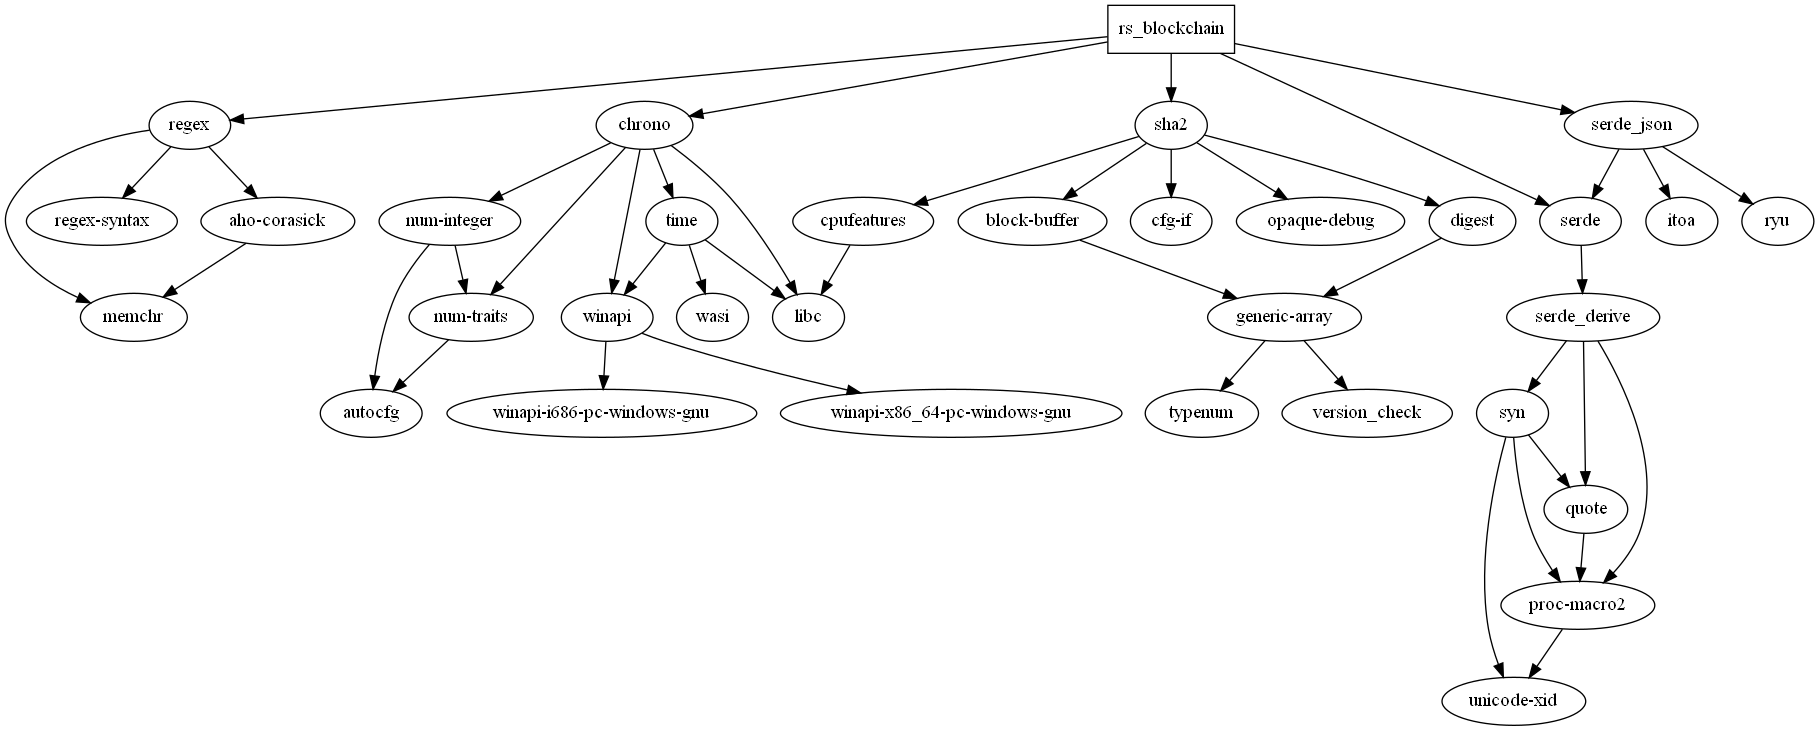
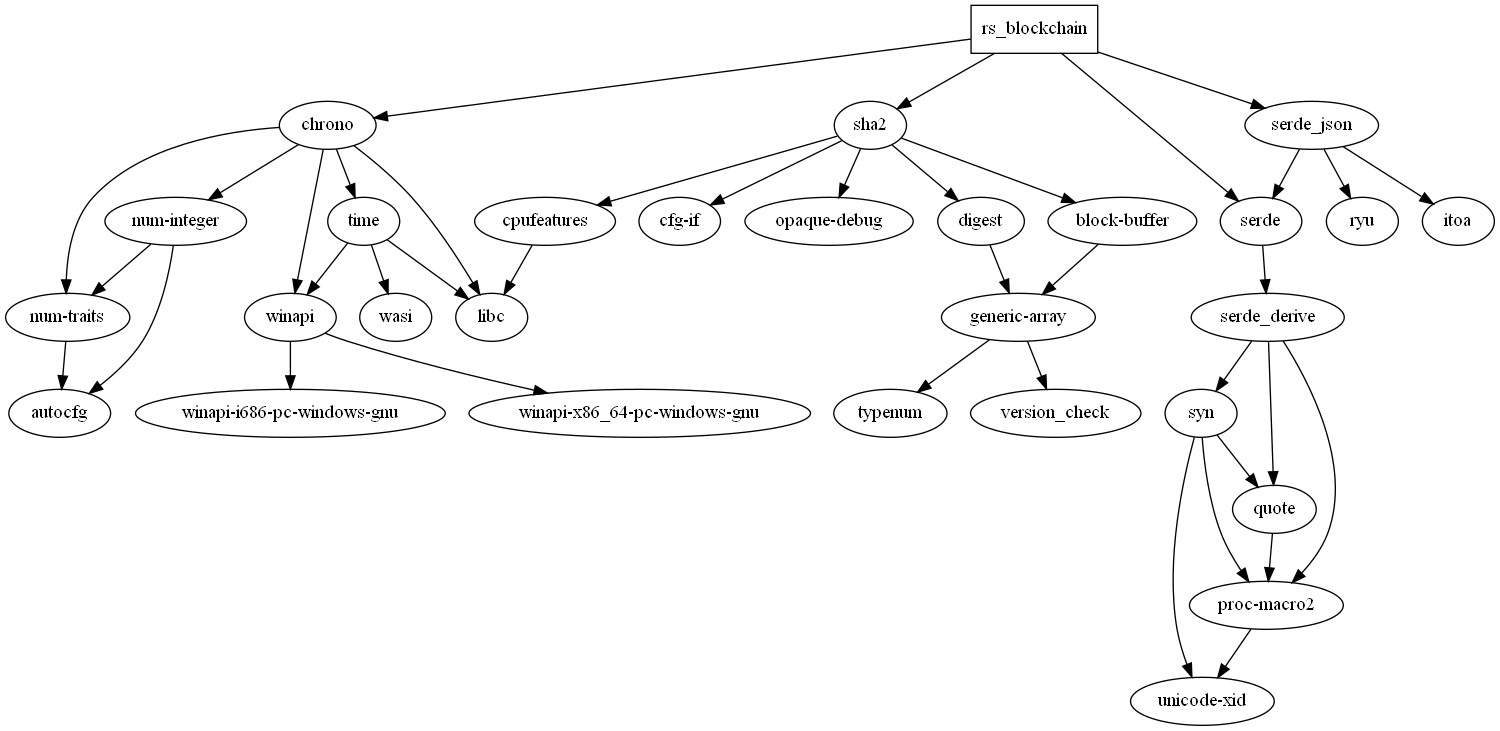
v0.2.5

diff --git a/src/rust_blockchain/blockchain.rs b/src/rust_blockchain/blockchain.rs
@@ -26,12 +26,10 @@ impl Blockchain {
 
     fn starts_with_zeros(&self, hash: &str) -> bool {
         let zeros: String = "0".repeat(self.difficulty as usize);
-        let formated_regex = format!(r"^({})", &zeros[..]);
-        let start_zeros = regex::Regex::new(&formated_regex).unwrap();
-        start_zeros.is_match(&*(hash))
+        hash.starts_with(&zeros)
     }
 
-    /// Initializes a Blockchain by creating a genesis block
+    /// Creates a new Blockchain struct and instantiates a genesis block
     pub fn init() -> Self {
         let mut blck_chain = Blockchain::new();
         let mut genesis_block = &mut blck_chain.chain[0];
@@ -40,6 +38,7 @@ impl Blockchain {
         blck_chain
     }
 
+    /// Sets the difficulty to the provided value
     pub fn set_difficulty(&mut self, diff: u32) {
         self.difficulty = diff;
     }
@@ -84,13 +83,6 @@ impl Blockchain {
         self.starts_with_zeros(&block_hash) && block_hash == block.compute_hash()
     }
 
-    /// Adds a transaction to the chain
-    // pub fn add_transaction(&mut self, sender: &str, receiver: &str, amount: f32) {
-    //     let transaction = Transaction::new(sender.to_string(), receiver.to_string(), amount);
-    //     println!("{}", transaction);
-    //     self.unconfirmed_transactions.push(transaction);
-    // }
-
     fn res_mine(&mut self) -> ErrResult<Block> {
         let unconfirmed_transactions = self.unconfirmed_transactions.clone();
         let res = unconfirmed_transactions
@@ -134,6 +126,7 @@ impl Blockchain {
         mined_block
     }
 
+    /// Writes all Blocks in a Blockchain into a separate file
     pub fn write_chain_to_file(&self) -> std::io::Result<()> {
         const BLOCKS_DIR: &str = "Blocks";
 
@@ -153,15 +146,24 @@ impl Blockchain {
             let file_name = format!("Block {}.json", blck.index);
             let mut file = File::create(file_name)?;
 
-            file.write_all(self_json.as_bytes())?;
+            file.write_all(&self_json.as_bytes())?;
         }
         env::set_current_dir("..")?;
         Ok(())
+    }
+
+    /// Lists all transactions in a Blockchain
+    pub fn list_transactions(&self) {
+        for block in self.chain.iter() {
+            for transaction in block.transactions.to_owned() {
+                println!("{}", transaction);
+            }
+        }
     }
 }
 
 impl Default for Blockchain {
     fn default() -> Self {
-        Self::new()
+        Self::init()
     }
 }

diff --git a/src/main.rs b/src/main.rs
@@ -1,0 +1,51 @@
+use std::env;
+
+use rs_blockchain::add_transaction;
+use rs_blockchain::rust_blockchain::blockchain::Blockchain;
+
+fn main() -> Result<(), Box<dyn std::error::Error>> {
+    let args: Vec<String> = env::args().collect();
+    let mut new_blockchain = Blockchain::init();
+
+    println!("{}", rs_blockchain::VERSION_INFO);
+
+    if args.len() >= 2 {
+        let mut collected_args: String = String::new();
+
+        for arg in args[..].iter() {
+            collected_args.push_str(arg);
+        }
+
+        let amount = rs_blockchain::remove_non_digits(&collected_args);
+
+        if amount != 0 {
+            for i in 1..=amount {
+                add_transaction!(
+                    new_blockchain, "Jane Doe" => "John Doe", i as f32,
+                    new_blockchain, "John Doe" => "Jane Doe", i * 2
+                );
+                new_blockchain.mine();
+            }
+        } else {
+            for i in 1..=25 {
+                add_transaction!(
+                    new_blockchain, "Jane Doe" => "John Doe", i as f32,
+                    new_blockchain, "John Doe" => "Jane Doe", i * 2,
+                );
+                new_blockchain.mine();
+            }
+        }
+    } else {
+        for i in 1..=25 {
+            add_transaction!(
+                new_blockchain, "Jane Doe" => "John Doe", i as f32,
+                new_blockchain, "John Doe" => "Jane Doe", i * 2,
+            );
+            new_blockchain.mine();
+        }
+    };
+
+    new_blockchain.list_transactions();
+    new_blockchain.write_chain_to_file()?;
+    Ok(())
+}

diff --git a/src/lib.rs b/src/lib.rs
@@ -24,23 +24,29 @@ impl fmt::Display for VersionInfo<'_> {
 pub const VERSION_INFO: VersionInfo = VersionInfo {
     version: 0.2,
     version_name: "Alma",
-    patch: 3,
+    patch: 5,
 };
 
-pub fn remove_non_digits(string: &str) -> Result<u32, std::num::ParseIntError> {
-    let re = regex::Regex::new(r"(\D)+").unwrap();
-    let applied_regex = re.replace_all(string, "");
-
-    applied_regex.parse::<u32>()
+/// Removes all characters that are not digits from an &str
+pub fn remove_non_digits(arg: &str) -> u32 {
+    arg.chars()
+        .filter(|c| c.is_digit(10))
+        .collect::<String>()
+        .parse::<u32>()
+        .unwrap_or(0)
 }
 
+/// Adds a transaction to the provided Blockchain
 #[macro_export]
 macro_rules! add_transaction {
-    ($block:expr , $sender:expr => $receiver:expr , $amount:expr $(,)?) => {{
-        let string_json = format!(
-            "{{\n\t\"sender\": {:?},\n\t\"receiver\": {:?},\n\t\"amount\": {:?},\n}}",
-            $sender, $receiver, $amount
-        );
-        $block.unconfirmed_transactions.push(string_json);
+    () => {};
+    ($($blockchain:expr , $sender:expr => $receiver:expr , $amount:expr),+ $(,)?) => {{
+        $(
+            let string_json = format!(
+                r#"{{ "sender": {:?}, "receiver": {:?}, "amount": {:?} }}"#,
+                $sender, $receiver, $amount
+            );
+            $blockchain.unconfirmed_transactions.push(string_json);
+        )+
     }};
 }

diff --git a/src/rust_blockchain/err.rs b/src/rust_blockchain/err.rs
@@ -1,7 +1,7 @@
 use std::error::Error;
 use std::fmt;
 
-/// Type which returns a Result with a type of T and Error an type of EmptyVecErr
+/// Type which returns a Result with a type of T and an Error type of EmptyVecErr
 pub type ErrResult<T> = std::result::Result<T, Box<dyn Error>>;
 
 /// Error which shows up when no transactions have happened in a Blockchain

diff --git a/README.MD b/README.MD
@@ -33,22 +33,34 @@ fn main() -> Result<(), Box<dyn std::error::Error>> {
 
         let amount = rs_blockchain::remove_non_digits(&collected_args);
 
-        match amount {
-            Ok(o) => {
-                for i in 1..=o {
-                    add_transaction!(new_blockchain, "Jane Doe" => "John Doe", i as f32);
-                    new_blockchain.mine();
-                }
+        if amount != 0 {
+            for i in 1..=amount {
+                add_transaction!(
+                    new_blockchain, "Jane Doe" => "John Doe", i as f32,
+                    new_blockchain, "John Doe" => "Jane Doe", i * 2
+                );
+                new_blockchain.mine();
             }
-            Err(_) => eprintln!("First argument does not contain a number"),
+        } else {
+            for i in 1..=25 {
+                add_transaction!(
+                    new_blockchain, "Jane Doe" => "John Doe", i as f32,
+                    new_blockchain, "John Doe" => "Jane Doe", i * 2,
+                );
+                new_blockchain.mine();
+            }
         }
     } else {
         for i in 1..=25 {
-            add_transaction!(new_blockchain, "Jane Doe" => "John Doe", i as f32);
+            add_transaction!(
+                new_blockchain, "Jane Doe" => "John Doe", i as f32,
+                new_blockchain, "John Doe" => "Jane Doe", i * 2,
+            );
             new_blockchain.mine();
         }
     };
 
+    new_blockchain.list_transactions();
     new_blockchain.write_chain_to_file()?;
     Ok(())
 }
@@ -59,8 +71,8 @@ fn main() -> Result<(), Box<dyn std::error::Error>> {
 Of course, anyone can!
 
 
-## Dependency graph
-![Depenency Graph](images/graph.png)
+## Dependency Graph
+![Dependency Graph](images/graph.png)
 
 
 [crate-image]: https://img.shields.io/crates/v/rs_blockchain.svg

diff --git a/CHANGELOG.MD b/CHANGELOG.MD
@@ -24,6 +24,13 @@ All noteworth changes to this project will be mentioned in this file.
 - Transactions have been replaced with JSON in Strings
 - Some minor changes
 
+## v0.2.5 Alma | 2/7/2021
+### Additions
+- The ```regex``` crate isn't a dependency anymore
+- Documented all public functions
+- Added the ```Blockchain::list_transactions``` function
+- Some minor changes
+
 ### Upcoming features
 - Wallets
 - Sending coins through a network
